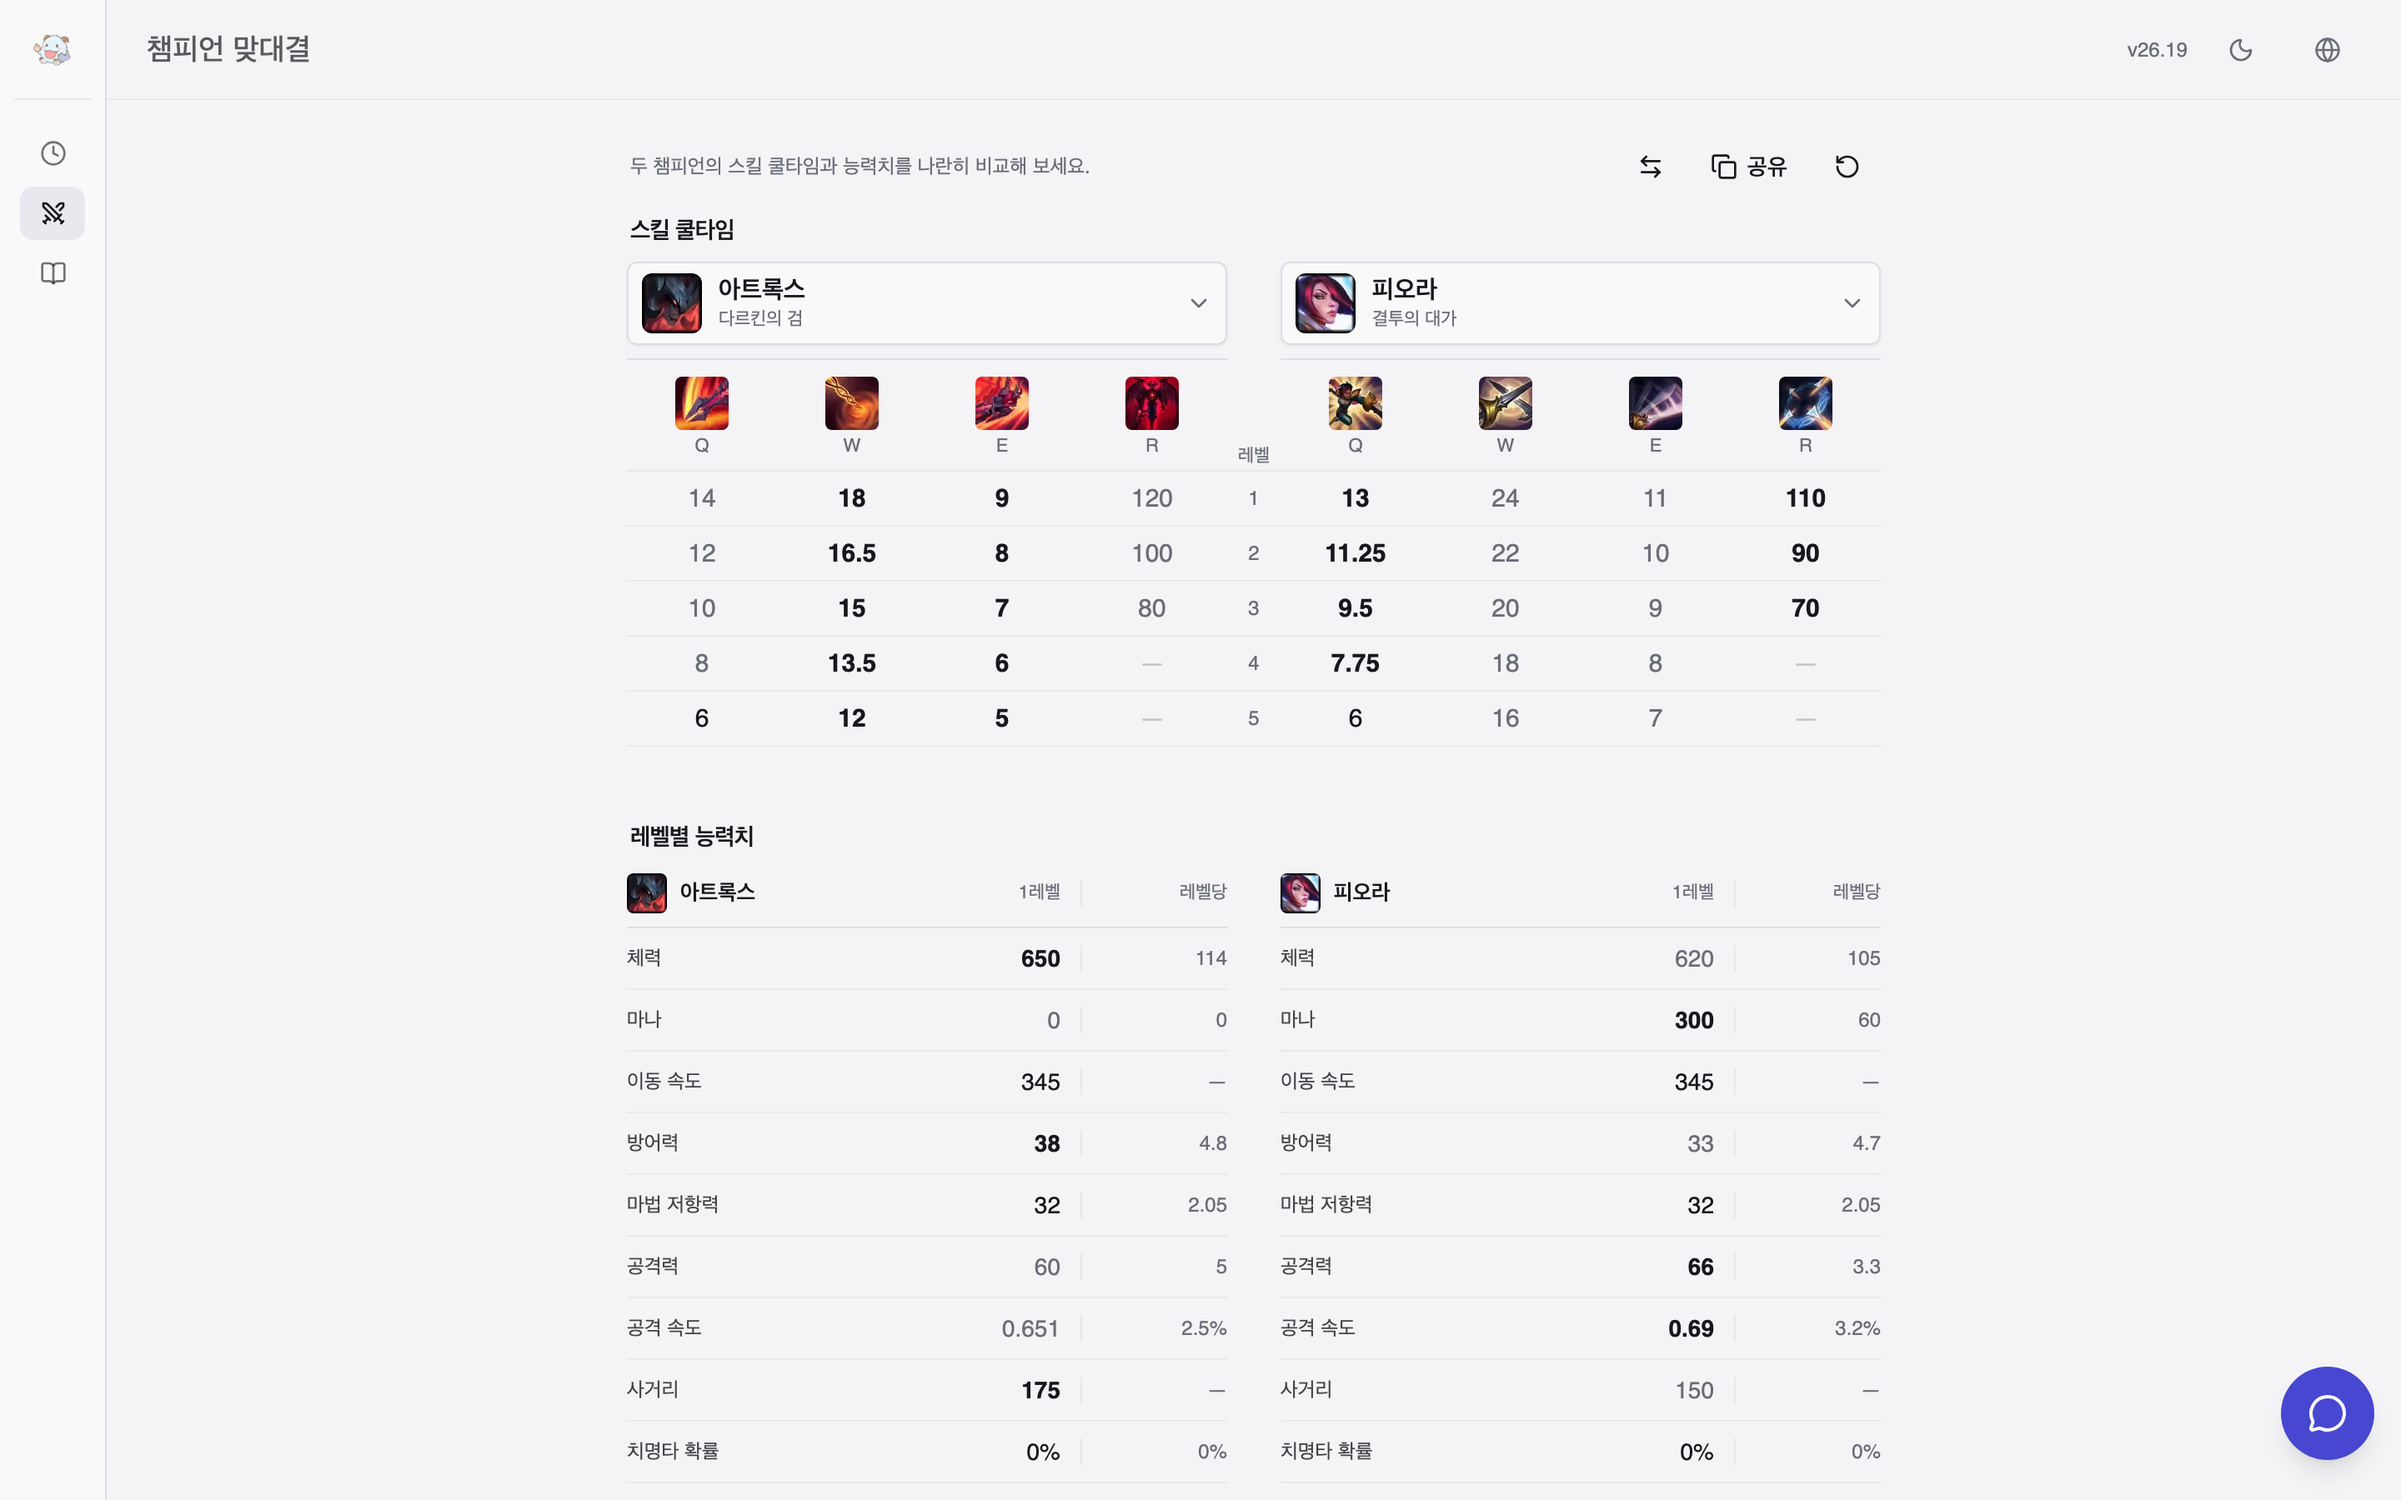
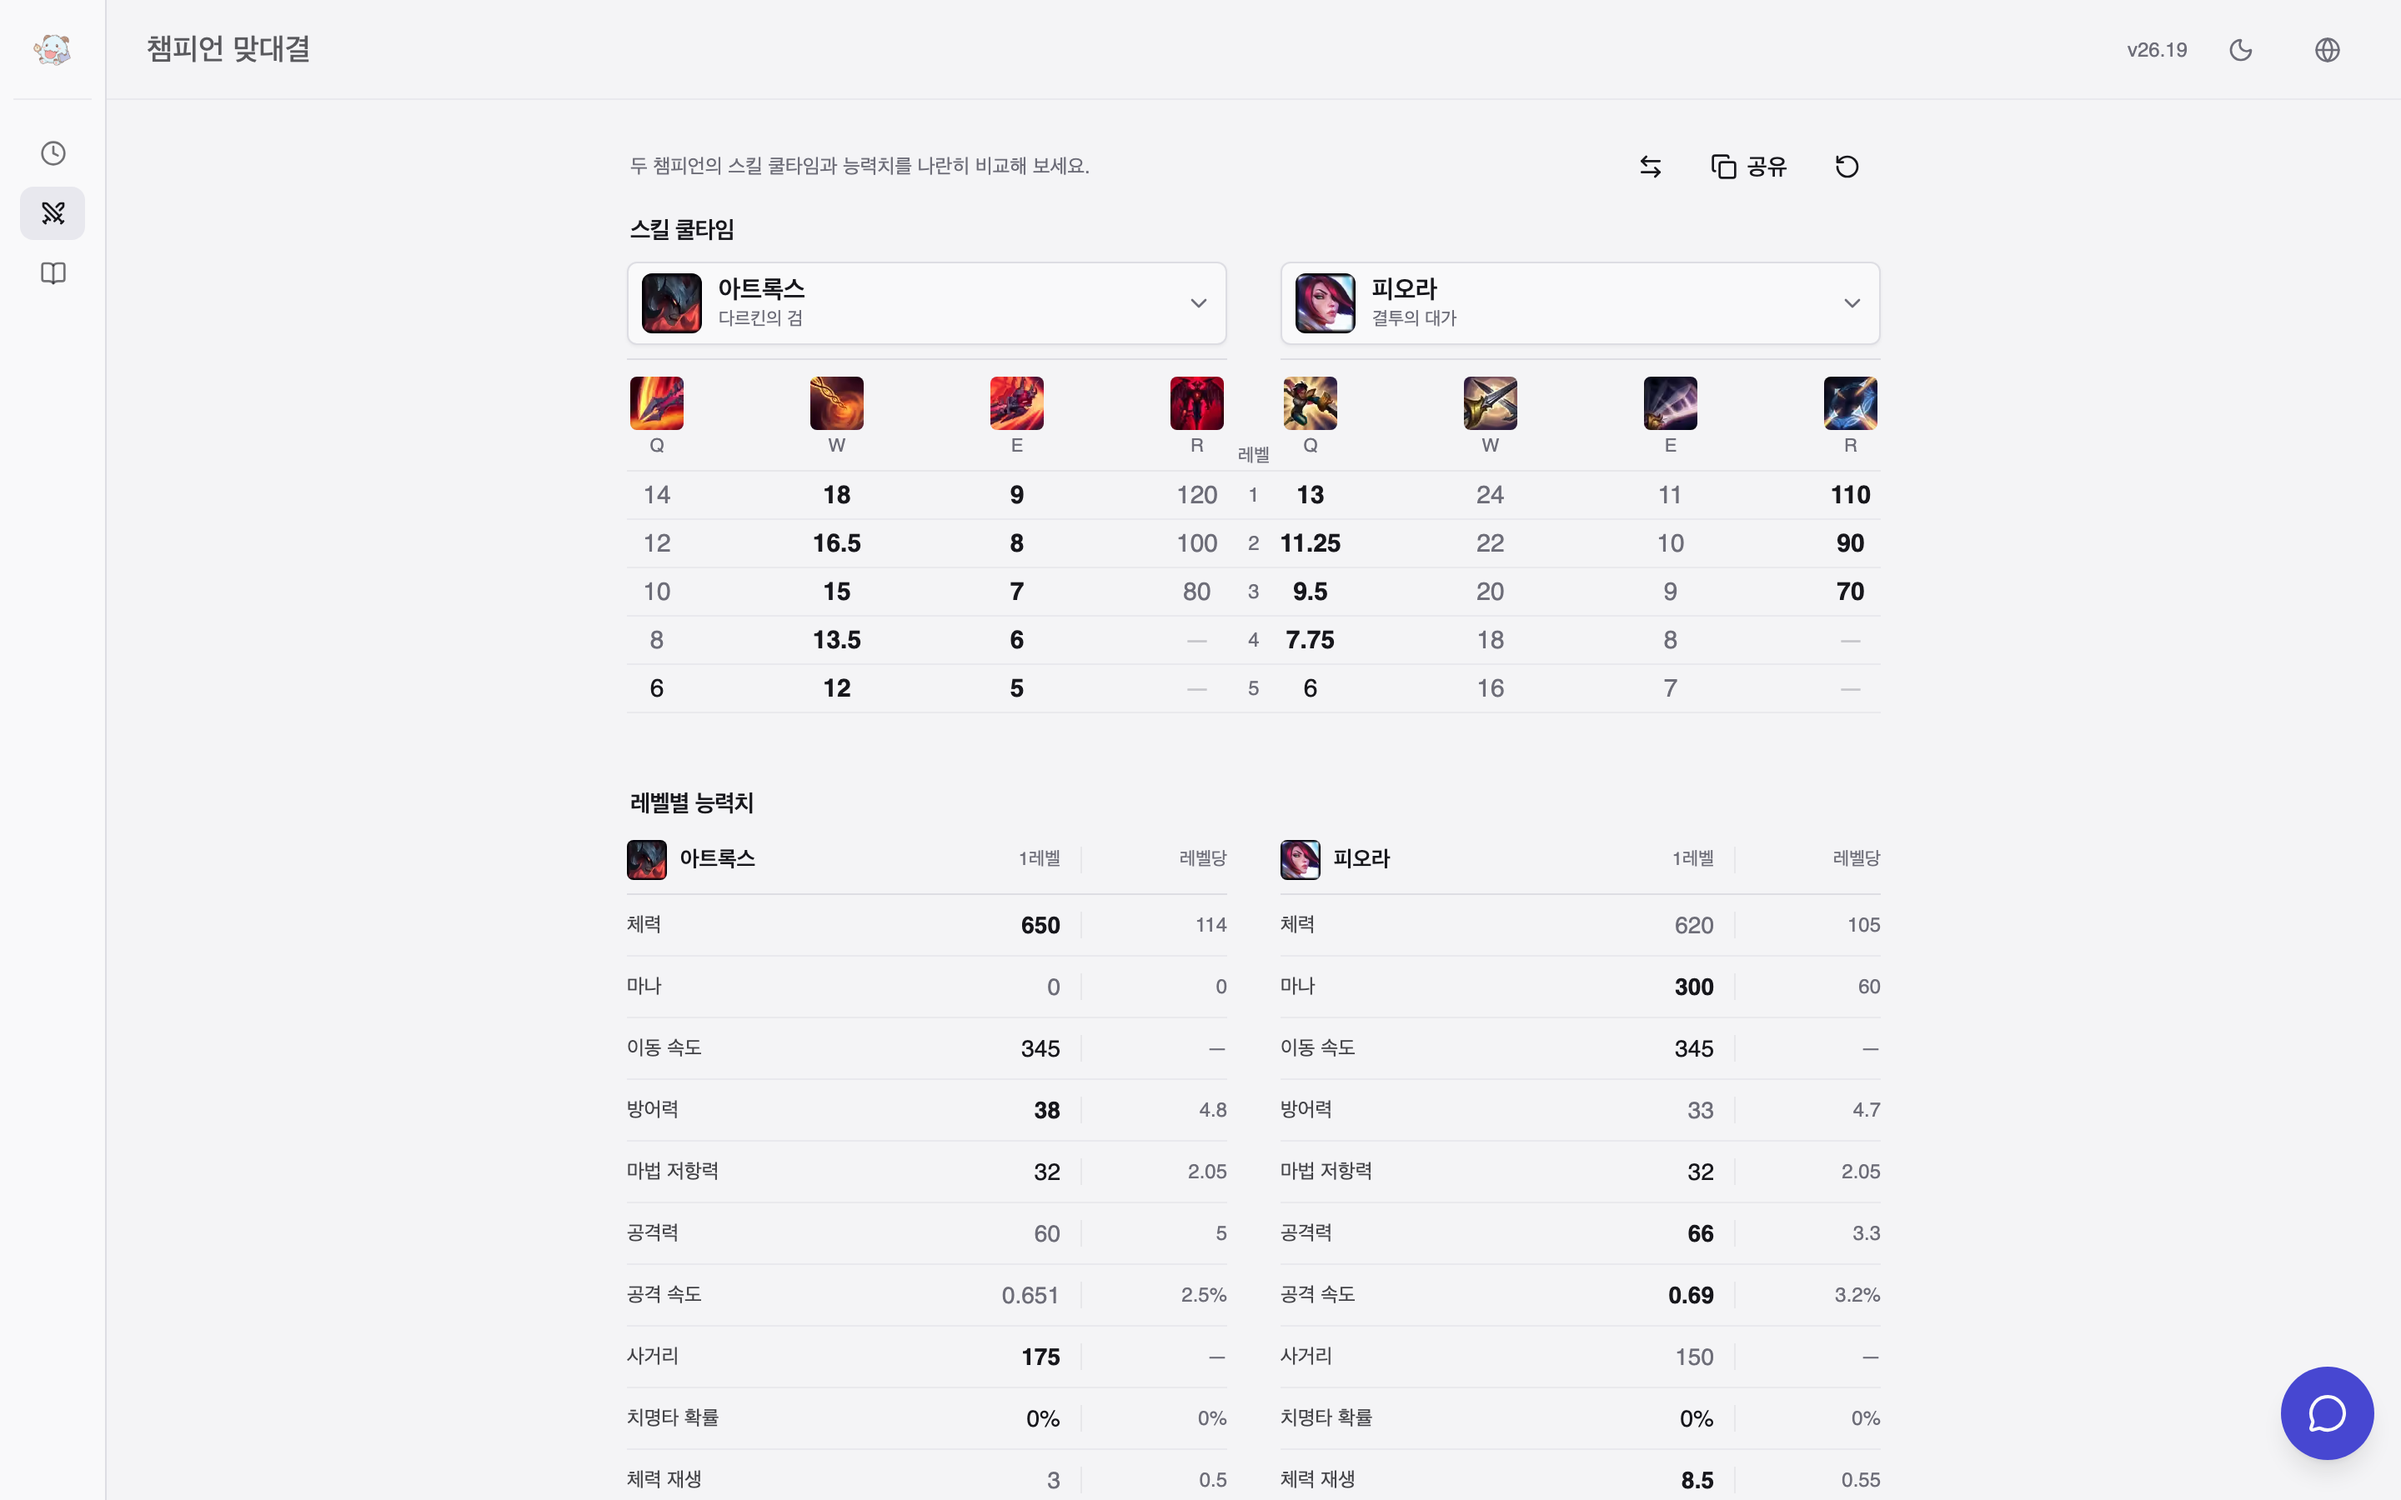
feat: VS 쿨타임 표에서 Q 는 블록 왼쪽 끝, R 은 오른쪽 끝에 붙이고 W·E 를 그 사이에 고르게 둔다
열 넷을 똑같이 나눠 가운데 정렬하면 첫 아이콘이 카드 왼쪽 끝에서 열 반쪽만큼 떨어져 빈다.
아이콘 폭 상자를 열 안에서 k/3 만큼 밀어 숫자와 재충전 줄이 아이콘 아래에 오게 한다.
재충전 줄은 줄바꿈 없이 상자 밖으로 고르게 넘치고, 휴대폰에서는 짧은 이름(재충전·Recharge·充能)을 쓴다.
README 의 VS 캡처를 갱신한다.

diff --git a/src/pages/VsPage/VsCooldownMatrix.tsx b/src/pages/VsPage/VsCooldownMatrix.tsx
@@ -8,7 +8,7 @@ import { VsChampionHeader } from "./VsChampionColumn";
 import { Dialog, DialogContent, DialogDescription, DialogTitle } from "@/components/ui/dialog";
 import { useTranslation } from "@/i18n";
 import { VsAbilityBody } from "./VsAbilityRow";
-import { ACTIVE_SLOTS, comparisonCooldownAtRank, cooldownRankCount, rankCooldowns } from "./vsCooldownTable";
+import { ACTIVE_SLOTS, comparisonCooldownAtRank, cooldownRankCount, rankCooldowns, slotOffsetClass } from "./vsCooldownTable";
 import type { useVsChampion } from "./useVsWorkspace";
 import type { VsSideKey } from "./vsState";
 
@@ -73,7 +73,7 @@ export function VsCooldownMatrix({ sides, version, onSelect }: { sides: MatrixSi
     <TooltipProvider delayDuration={150} skipDelayDuration={100}>
     <section aria-label={t.comparison.baseCooldowns}>
       <h2 className="mb-2 px-0.5 text-sm font-semibold tracking-tight">{t.comparison.baseCooldowns}</h2>
-      <table className="w-full table-fixed border-separate border-spacing-0" aria-label={t.comparison.baseCooldowns}>
+      <table className="w-full table-fixed border-separate border-spacing-0 [--vs-icon:1.75rem] sm:[--vs-icon:2rem]" aria-label={t.comparison.baseCooldowns}>
         <caption className="sr-only">{t.comparison.tableNote}</caption>
         <colgroup>
           {columns.slice(0, ACTIVE_SLOTS.length).map((column) => <col key={column.side + column.slot} />)}
@@ -97,7 +97,7 @@ export function VsCooldownMatrix({ sides, version, onSelect }: { sides: MatrixSi
             {columns.map(({ side, slot, name, championId, ability }, index) => (
               <Fragment key={side + slot}>
                 {index === ACTIVE_SLOTS.length && <th scope="col" className="border-b border-border/60 px-0 text-center align-bottom text-[11px] font-normal text-muted-foreground">{t.comparison.levelColumn}</th>}
-                <VsMatrixSkill side={side} slot={slot} name={name} championId={championId} ability={ability} version={version} onSelect={(selectedAbility, trigger) => { returnFocus.current = trigger; setSelected({ ability: selectedAbility, name, slot }); }} />
+                <VsMatrixSkill side={side} slot={slot} name={name} championId={championId} ability={ability} version={version} boxClass={slotOffsetClass(index)} onSelect={(selectedAbility, trigger) => { returnFocus.current = trigger; setSelected({ ability: selectedAbility, name, slot }); }} />
               </Fragment>
             ))}
           </tr>}
@@ -112,8 +112,10 @@ export function VsCooldownMatrix({ sides, version, onSelect }: { sides: MatrixSi
                 <Fragment key={side + slot}>
                 {columnIndex === ACTIVE_SLOTS.length && <th id={"vs-rank-" + (index + 1)} scope="row" className="border-b border-border/50 px-0 py-1 text-center align-middle text-xs font-normal tabular-nums text-muted-foreground">{index + 1}</th>}
                 <td headers={"vs-rank-" + (index + 1) + " vs-" + side + "-" + slot} className="border-b border-border/50 px-0.5 py-1 text-center align-middle">
+                  <div className={slotOffsetClass(columnIndex)}>
                   {ability?.forms ? <VsFormCooldown ability={ability} peer={values[peerIndex(columnIndex)]?.ability} rank={index + 1} side={side} slot={slot} format={formatter.format} /> : <VsCooldownValue value={cooldowns[index]} peer={comparisonCooldownAtRank(values[peerIndex(columnIndex)]?.ability, index + 1)} kind="cooldown" side={side} slot={slot} rank={index + 1} format={formatter.format} />}
-                  {recharges[index] !== null && <span className="mt-0.5 block text-[11px] leading-4 text-muted-foreground">{t.common.rechargeTime} <VsCooldownValue value={recharges[index]} peer={values[peerIndex(columnIndex)]?.recharges[index] ?? null} kind="recharge" side={side} slot={slot} rank={index + 1} format={formatter.format} /></span>}
+                  {recharges[index] !== null && <span className="mt-0.5 block whitespace-nowrap text-[11px] leading-4 text-muted-foreground"><span className="sm:hidden">{t.common.rechargeShort}</span><span className="hidden sm:inline">{t.common.rechargeTime}</span> <VsCooldownValue value={recharges[index]} peer={values[peerIndex(columnIndex)]?.recharges[index] ?? null} kind="recharge" side={side} slot={slot} rank={index + 1} format={formatter.format} /></span>}
+                  </div>
                 </td>
                 </Fragment>
               ))}

diff --git a/src/pages/VsPage/VsMatrixSkill.tsx b/src/pages/VsPage/VsMatrixSkill.tsx
@@ -10,19 +10,21 @@ import { AbilityFormDetails } from "@/components/features/ChampionComparison/Abi
 /** Icon and slot letter only; the name lives in the tooltip and the champion in the row above. */
 export function VsMatrixSkill(props: {
   side: VsSideKey; slot: string; name: string; championId: string; ability?: AbilityV2;
-  version: string; onSelect: (ability: AbilityV2, trigger: HTMLButtonElement) => void;
+  version: string; boxClass: string; onSelect: (ability: AbilityV2, trigger: HTMLButtonElement) => void;
 }) {
   const { t } = useTranslation();
-  const { side, slot, name, championId, ability, version, onSelect } = props;
+  const { side, slot, name, championId, ability, version, boxClass, onSelect } = props;
   // 두 챔피언은 가운데 빈 열이 가른다(VsCooldownMatrix). 여기서는 경계를 신경 쓰지 않는다.
   return (
     <th id={"vs-" + side + "-" + slot} data-testid={"vs-" + side + "-" + slot} scope="col" className="border-b border-border/60 p-0 align-top font-normal">
       <Tooltip>
         <TooltipTrigger asChild>
-          <button type="button" disabled={!ability} onClick={(event) => ability && onSelect(ability, event.currentTarget)} aria-label={name + " " + slot + " " + t.comparison.details} className="flex w-full min-w-0 flex-col items-center gap-1 px-0.5 pb-2 pt-2.5 hover:bg-muted/50 focus-visible:outline-2 focus-visible:-outline-offset-2 focus-visible:outline-primary disabled:cursor-default">
+          <button type="button" disabled={!ability} onClick={(event) => ability && onSelect(ability, event.currentTarget)} aria-label={name + " " + slot + " " + t.comparison.details} className="block w-full min-w-0 px-0.5 pb-2 pt-2.5 hover:bg-muted/50 focus-visible:outline-2 focus-visible:-outline-offset-2 focus-visible:outline-primary disabled:cursor-default">
+            <span className={boxClass + " gap-1"}>
             {ability?.forms ? <AbilityFormIcon forms={ability.forms} label={name + " " + slot} ddragonVersion={version} className="size-7 sm:size-8" /> : ability ? <AbilityIcon championId={championId} slot={slot} ddragonVersion={version} className="block size-7 shrink-0 rounded shadow-none sm:size-8" /> : <span className="size-7 shrink-0 rounded bg-muted sm:size-8" />}
             <span className="text-[11px] leading-3 text-muted-foreground">{slot}</span>
             <span className="sr-only">{name} · {t.comparison[side]} · {ability?.name ?? "—"}</span>
+            </span>
           </button>
         </TooltipTrigger>
         {ability && (

diff --git a/src/pages/VsPage/vsCooldownTable.ts b/src/pages/VsPage/vsCooldownTable.ts
@@ -2,6 +2,18 @@ import type { AbilityForm, AbilityV2 } from "@/data/contracts/championData";
 
 export const ACTIVE_SLOTS = ["Q", "W", "E", "R"] as const;
 
+/**
+ * 스킬 열 안에서 내용물을 어디에 둘지.
+ *
+ * 열 넷이 폭을 똑같이 나누고 가운데 정렬하면 첫 아이콘이 카드 왼쪽 끝에서 열 반쪽만큼
+ * 떨어져 빈다. 그래서 Q 는 열 왼쪽 끝, R 은 오른쪽 끝에 붙이고 W·E 는 그 사이를
+ * 삼등분한 자리에 둔다. 아이콘 폭(`--vs-icon`)만큼의 상자를 열 안에서 k/3 만큼 밀고,
+ * 숫자·재충전 줄은 그 상자 가운데에 맞춘다. 상자보다 넓은 글은 양쪽으로 고르게 넘친다.
+ */
+export const SLOT_BOX = "flex w-[var(--vs-icon)] flex-col items-center";
+export const SLOT_OFFSET = ["ml-0", "ml-[calc((100%-var(--vs-icon))/3)]", "ml-[calc((100%-var(--vs-icon))*2/3)]", "ml-[calc(100%-var(--vs-icon))]"] as const;
+export const slotOffsetClass = (columnIndex: number) => SLOT_BOX + " " + SLOT_OFFSET[columnIndex % ACTIVE_SLOTS.length];
+
 export function formCooldownAtRank(ability: AbilityV2, form: AbilityForm, rank: number): number | null {
   return rankCooldowns({ ability, values: form.cooldownSeconds, columns: rank })[rank - 1];
 }

diff --git a/src/i18n/koKRTranslations.ts b/src/i18n/koKRTranslations.ts
@@ -230,6 +230,7 @@ export const koKRTranslations: Translations = {
       noCost: "소모값 없음",
       mana: "마나",
       rechargeTime: "재충전 대기시간",
+      rechargeShort: "재충전",
       max: "최대",
       items: "개",
       bonus: "추가",

diff --git a/src/i18n/enUSTranslations.ts b/src/i18n/enUSTranslations.ts
@@ -230,6 +230,7 @@ export const enUSTranslations: Translations = {
       noCost: "No Cost",
       mana: "Mana",
       rechargeTime: "Recharge Time",
+      rechargeShort: "Recharge",
       max: "Max",
       items: "",
       bonus: "bonus",

diff --git a/src/i18n/zhCNTranslations.ts b/src/i18n/zhCNTranslations.ts
@@ -216,6 +216,7 @@ export const zhCNTranslations: Translations = {
     noCost: "无消耗",
     mana: "法力值",
     rechargeTime: "充能时间",
+    rechargeShort: "充能",
     max: "最大",
     items: "装备",
     bonus: "额外",

diff --git a/src/i18n/translationTypes.ts b/src/i18n/translationTypes.ts
@@ -220,6 +220,7 @@ export interface Translations {
     noCost: string;
     mana: string;
     rechargeTime: string;
+    rechargeShort: string;
     max: string;
     items: string;
     bonus: string;
